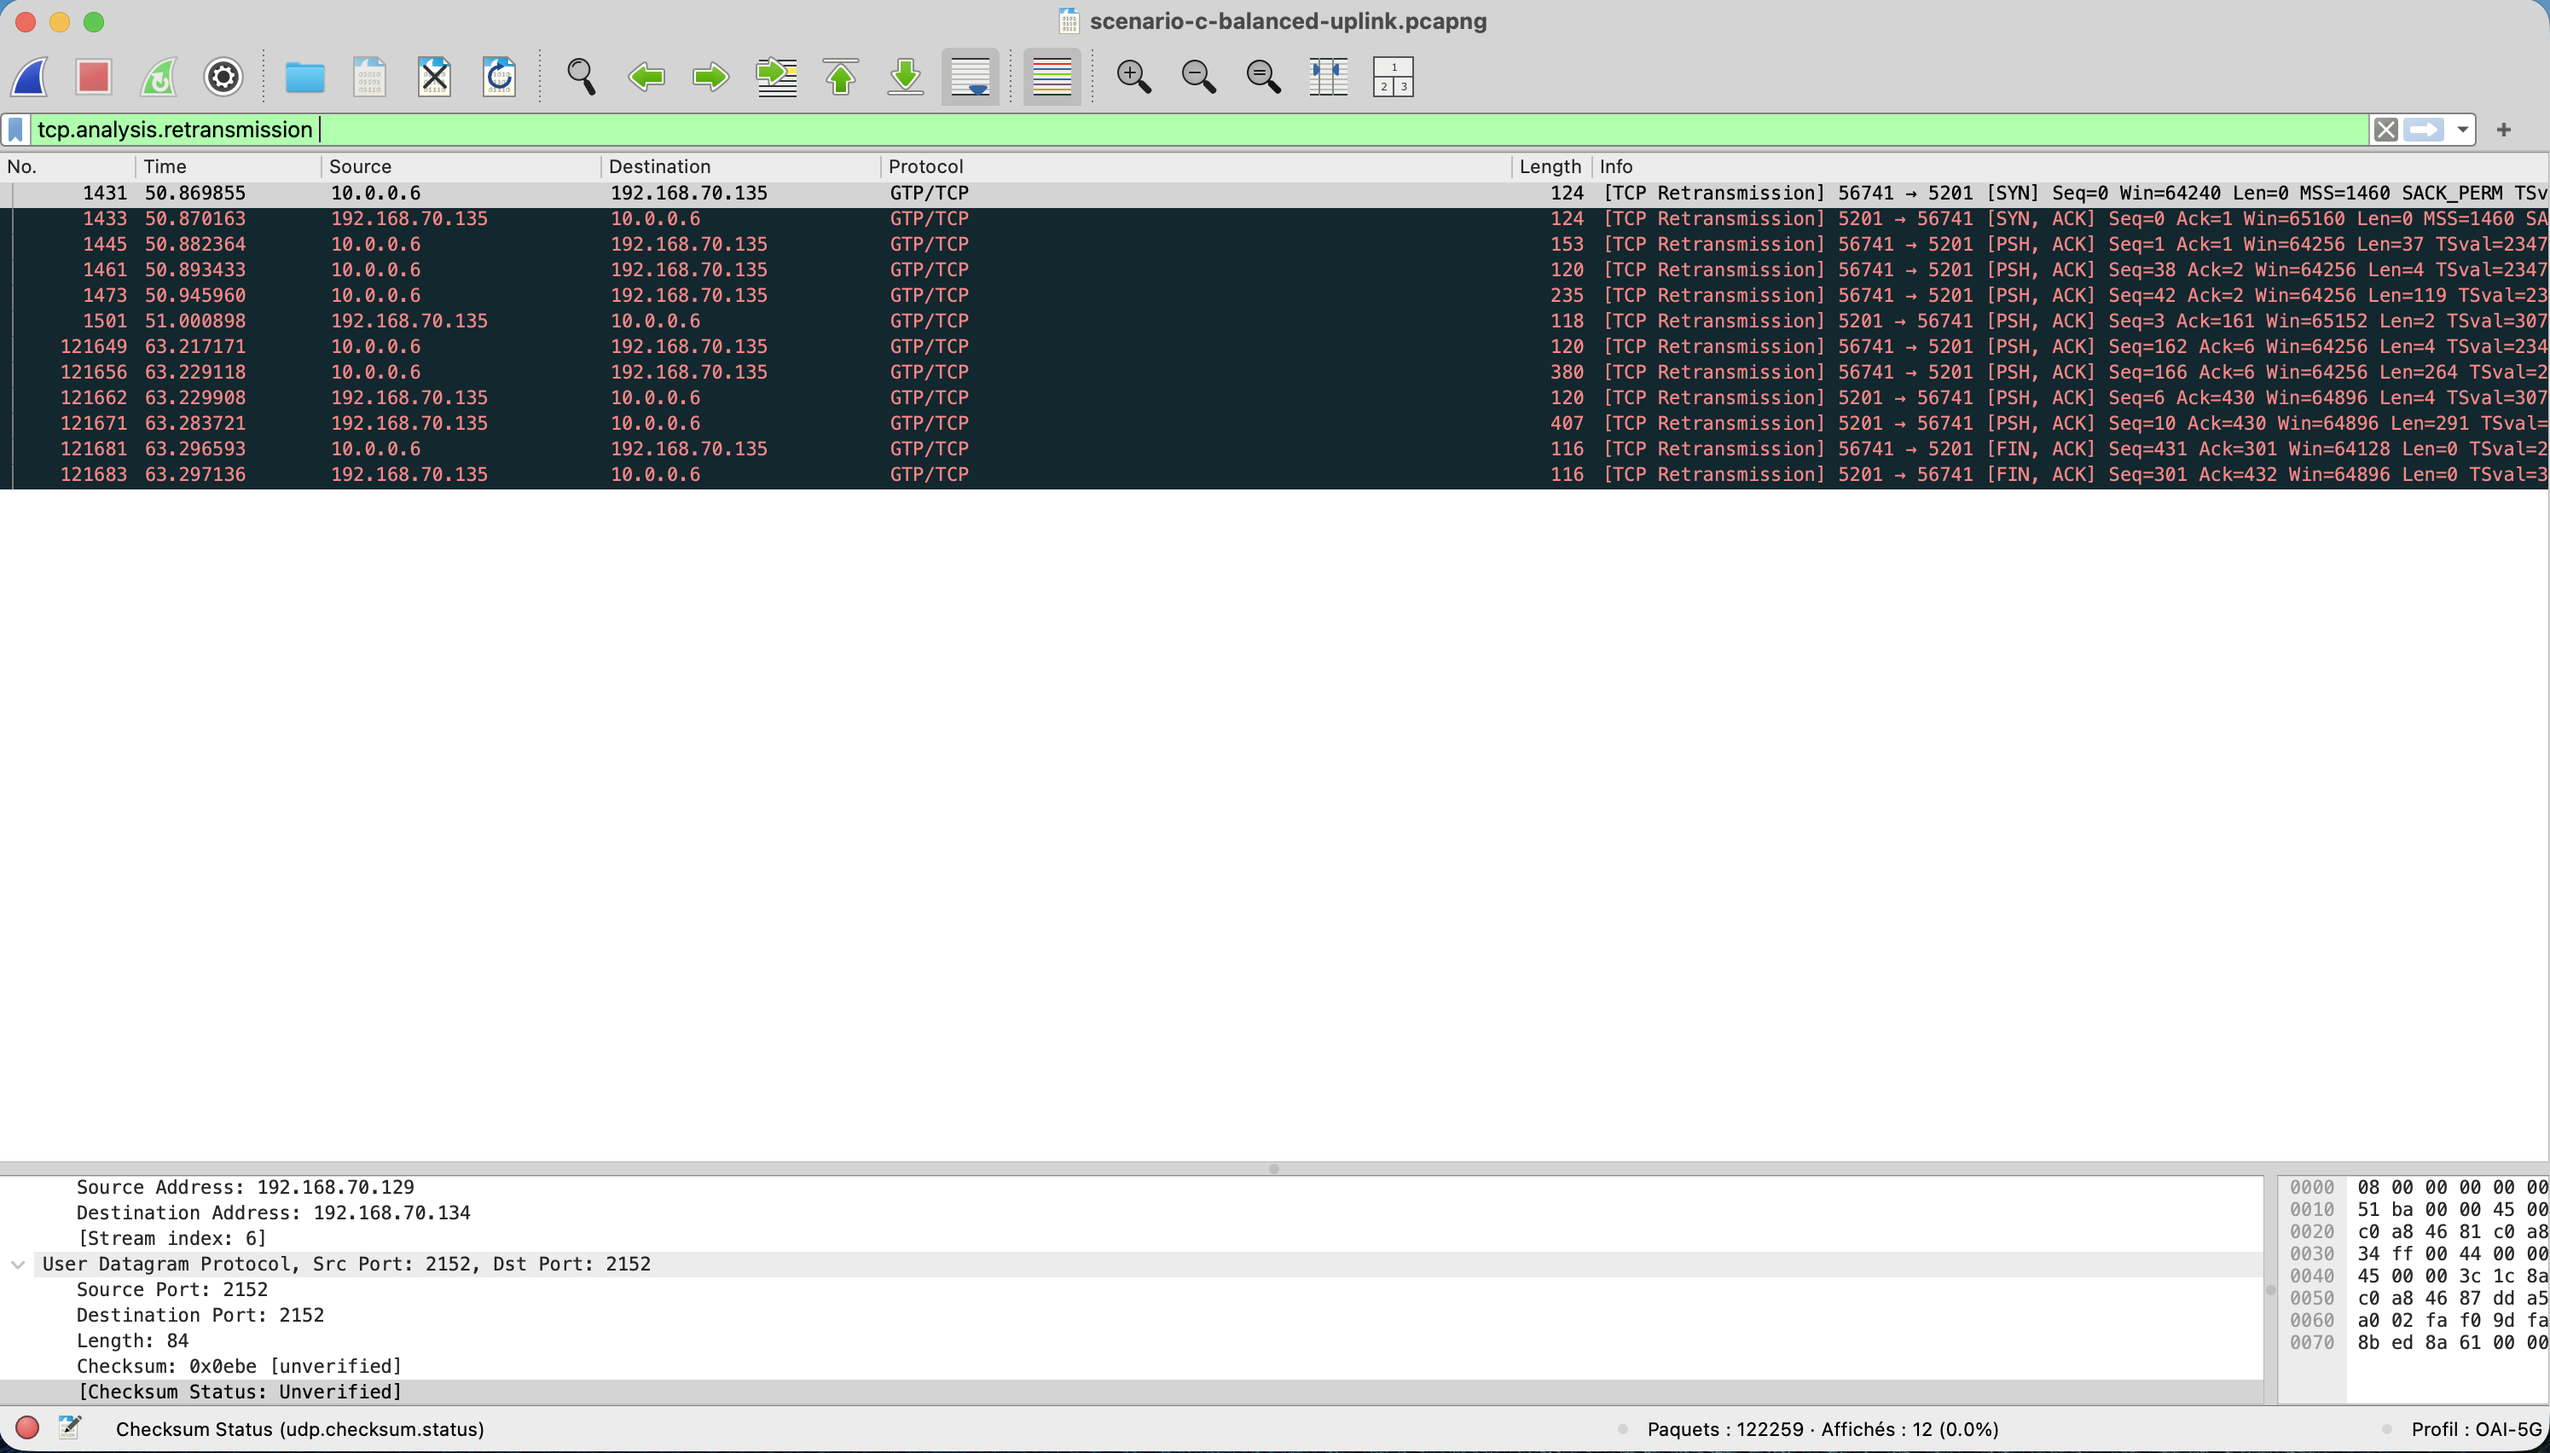
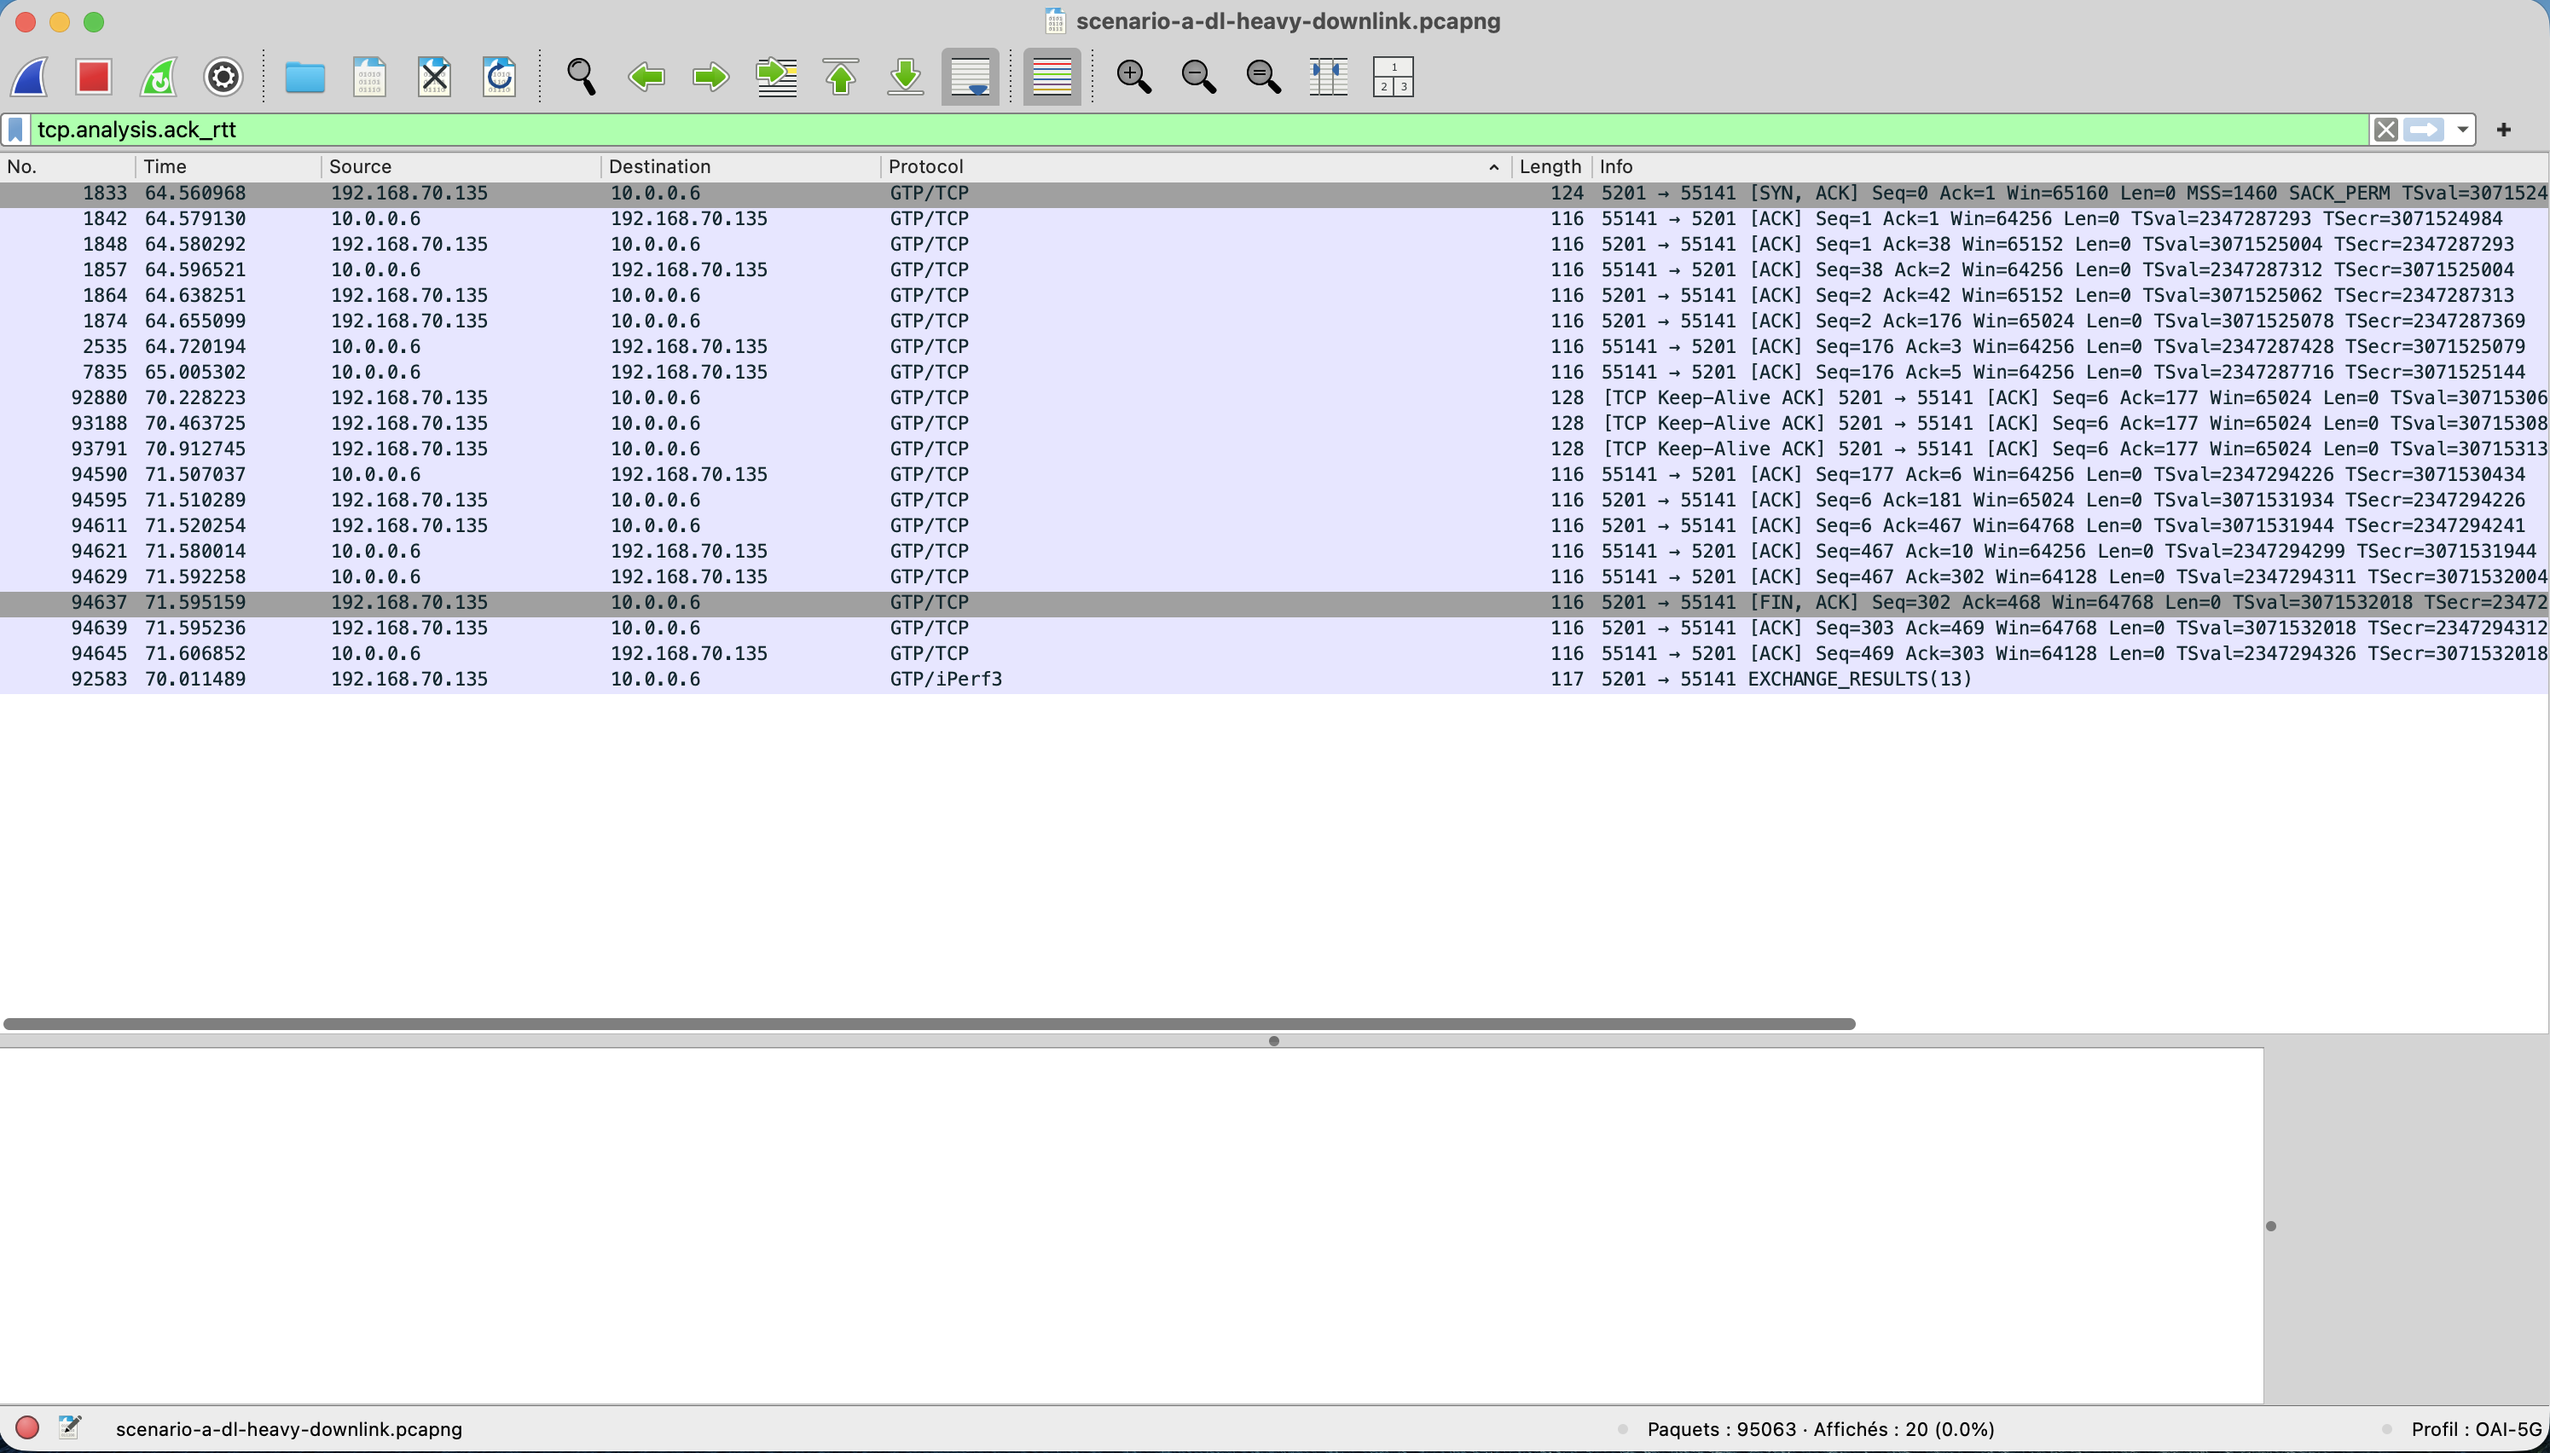
doc(lab 2): task 7

diff --git a/Lab2.md b/Lab2.md
@@ -232,17 +232,22 @@ No, these TCP retransmissions do not directly represent lost UDP performance pac
 
 ### TCP RTT
 
-I applied this filter:
+I applied this filter to the .pcapng of scenario A:
 
 ```text
 tcp.analysis.ack_rtt
 ```
+![Wireshark scenario A](/readMeImages/lab2/image13.png)
+*Evidence 13 — .pcapng from scenario A*
 
 I selected one packet and recorded its ACK RTT:
 
+![Wireshark scenario A](/readMeImages/lab2/image14.png)
+*Evidence 14 — .pcapng from scenario A, seq 1 is transmitted at 64.560968 and received at 64.579130*
+
 | Scenario | Example TCP ACK RTT |
 |----------|---------------------|
-| A, B, or C | |
+| A | 0.018162 (18.162000 milliseconds)|
 
 This value is the RTT of the TCP control connection. It is not the RTT of the UDP data packets.
 
@@ -258,7 +263,14 @@ One example:
 
 | Flow | Packet numbers | Time interval |
 |------|----------------|---------------|
-| | | |
+| TCP | 1842 & 1843 | 6.000 microseconds |
+| TCP | 1843 & 1846| 4.000 microseconds |
+
+![Wireshark scenario A](/readMeImages/lab2/image15.png)
+*Evidence 15 — Time delta from previous displayed frame for frame 1843*
+
+![Wireshark scenario A](/readMeImages/lab2/image16.png)
+*Evidence 16 — Time delta from previous displayed frame for frame 1846*
 
 Packet interval means the time between two packets seen at the capture point. It is not the same as RTT.
 
